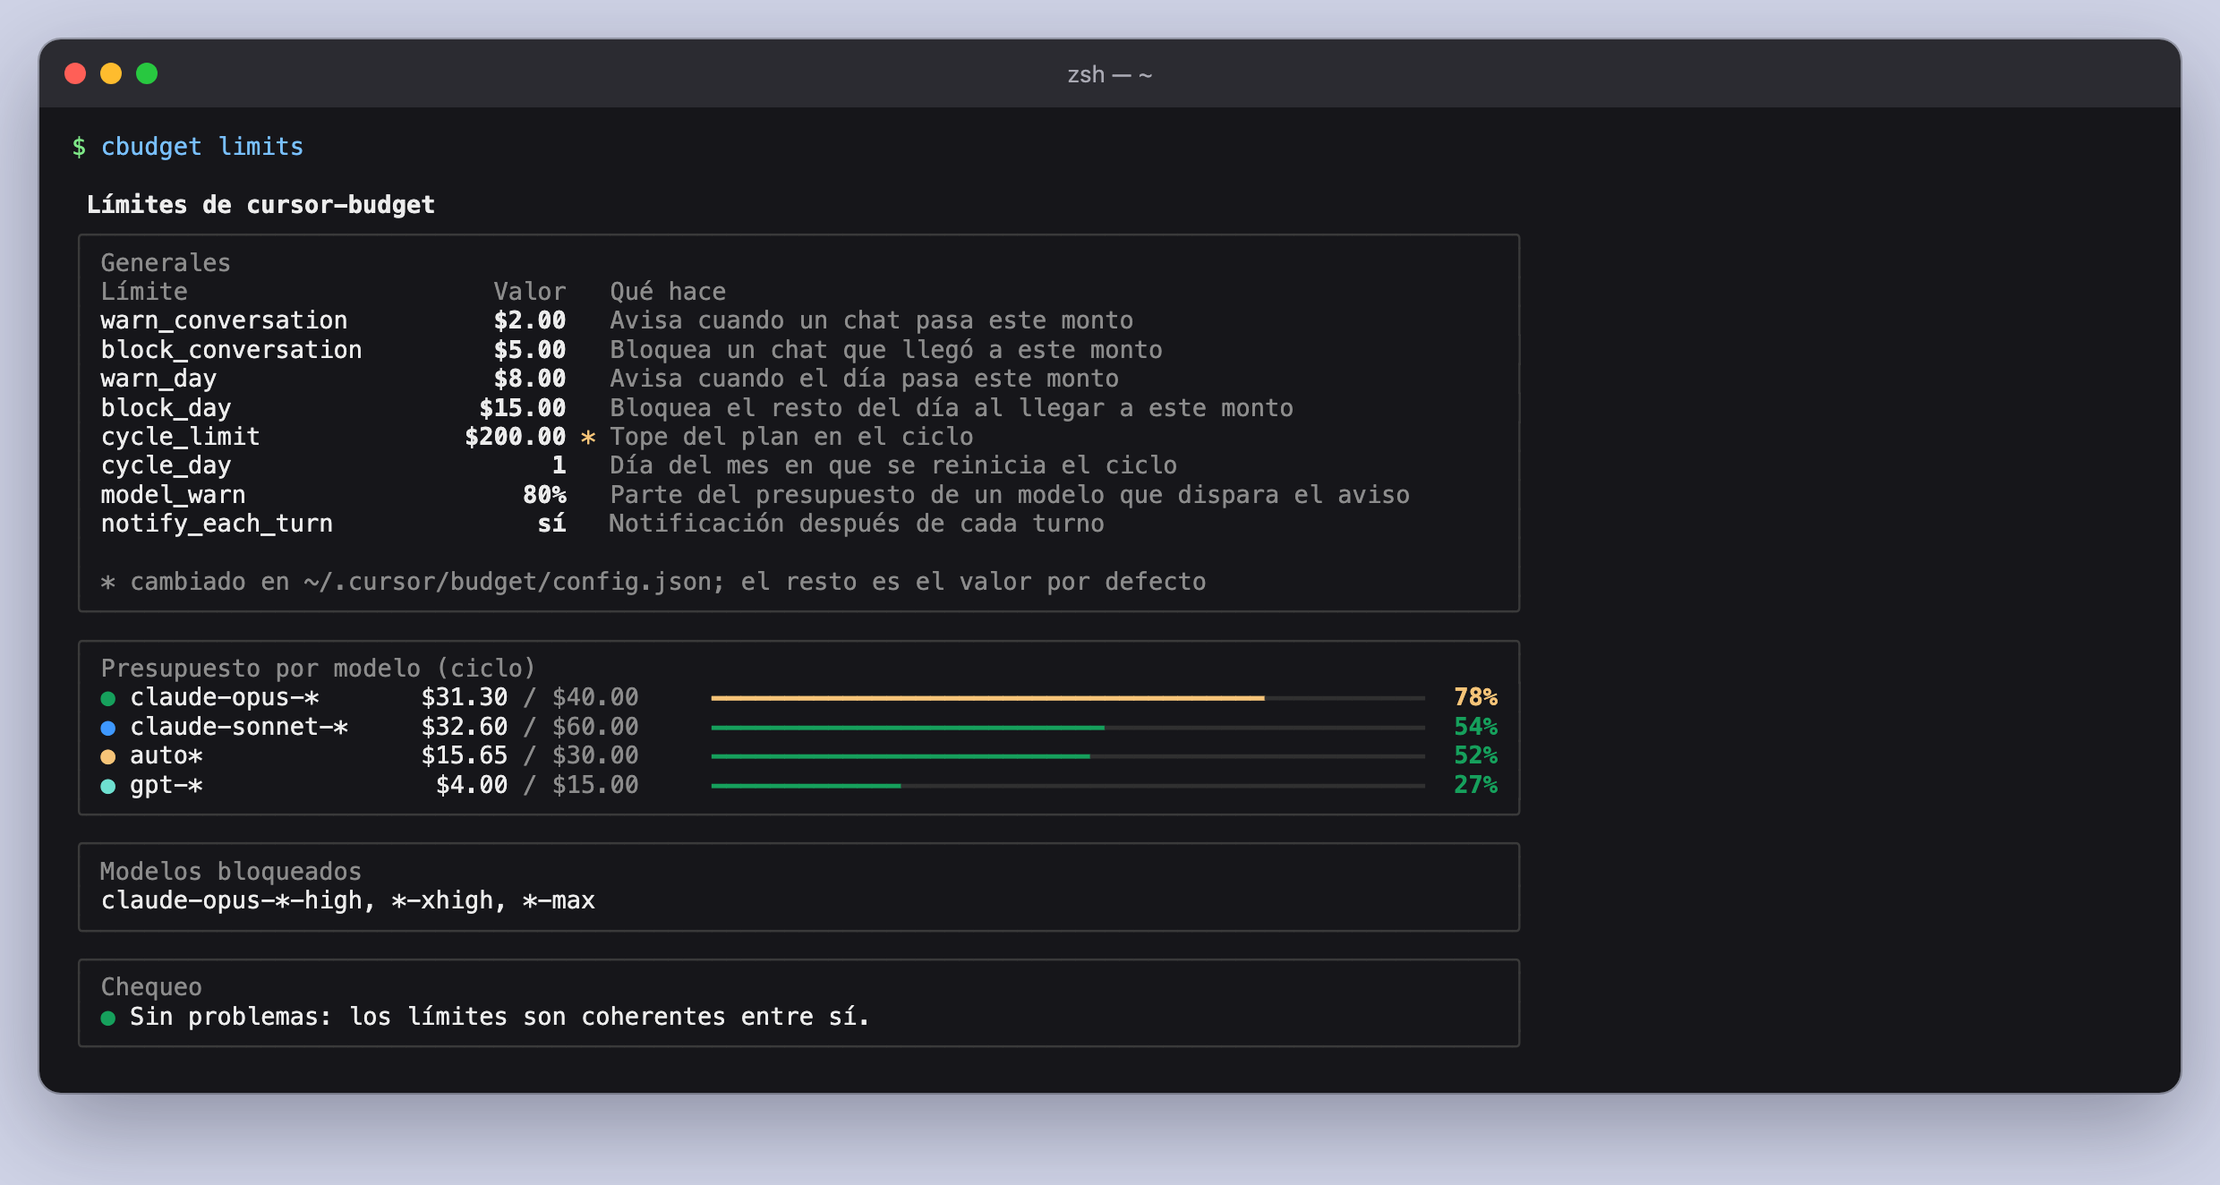
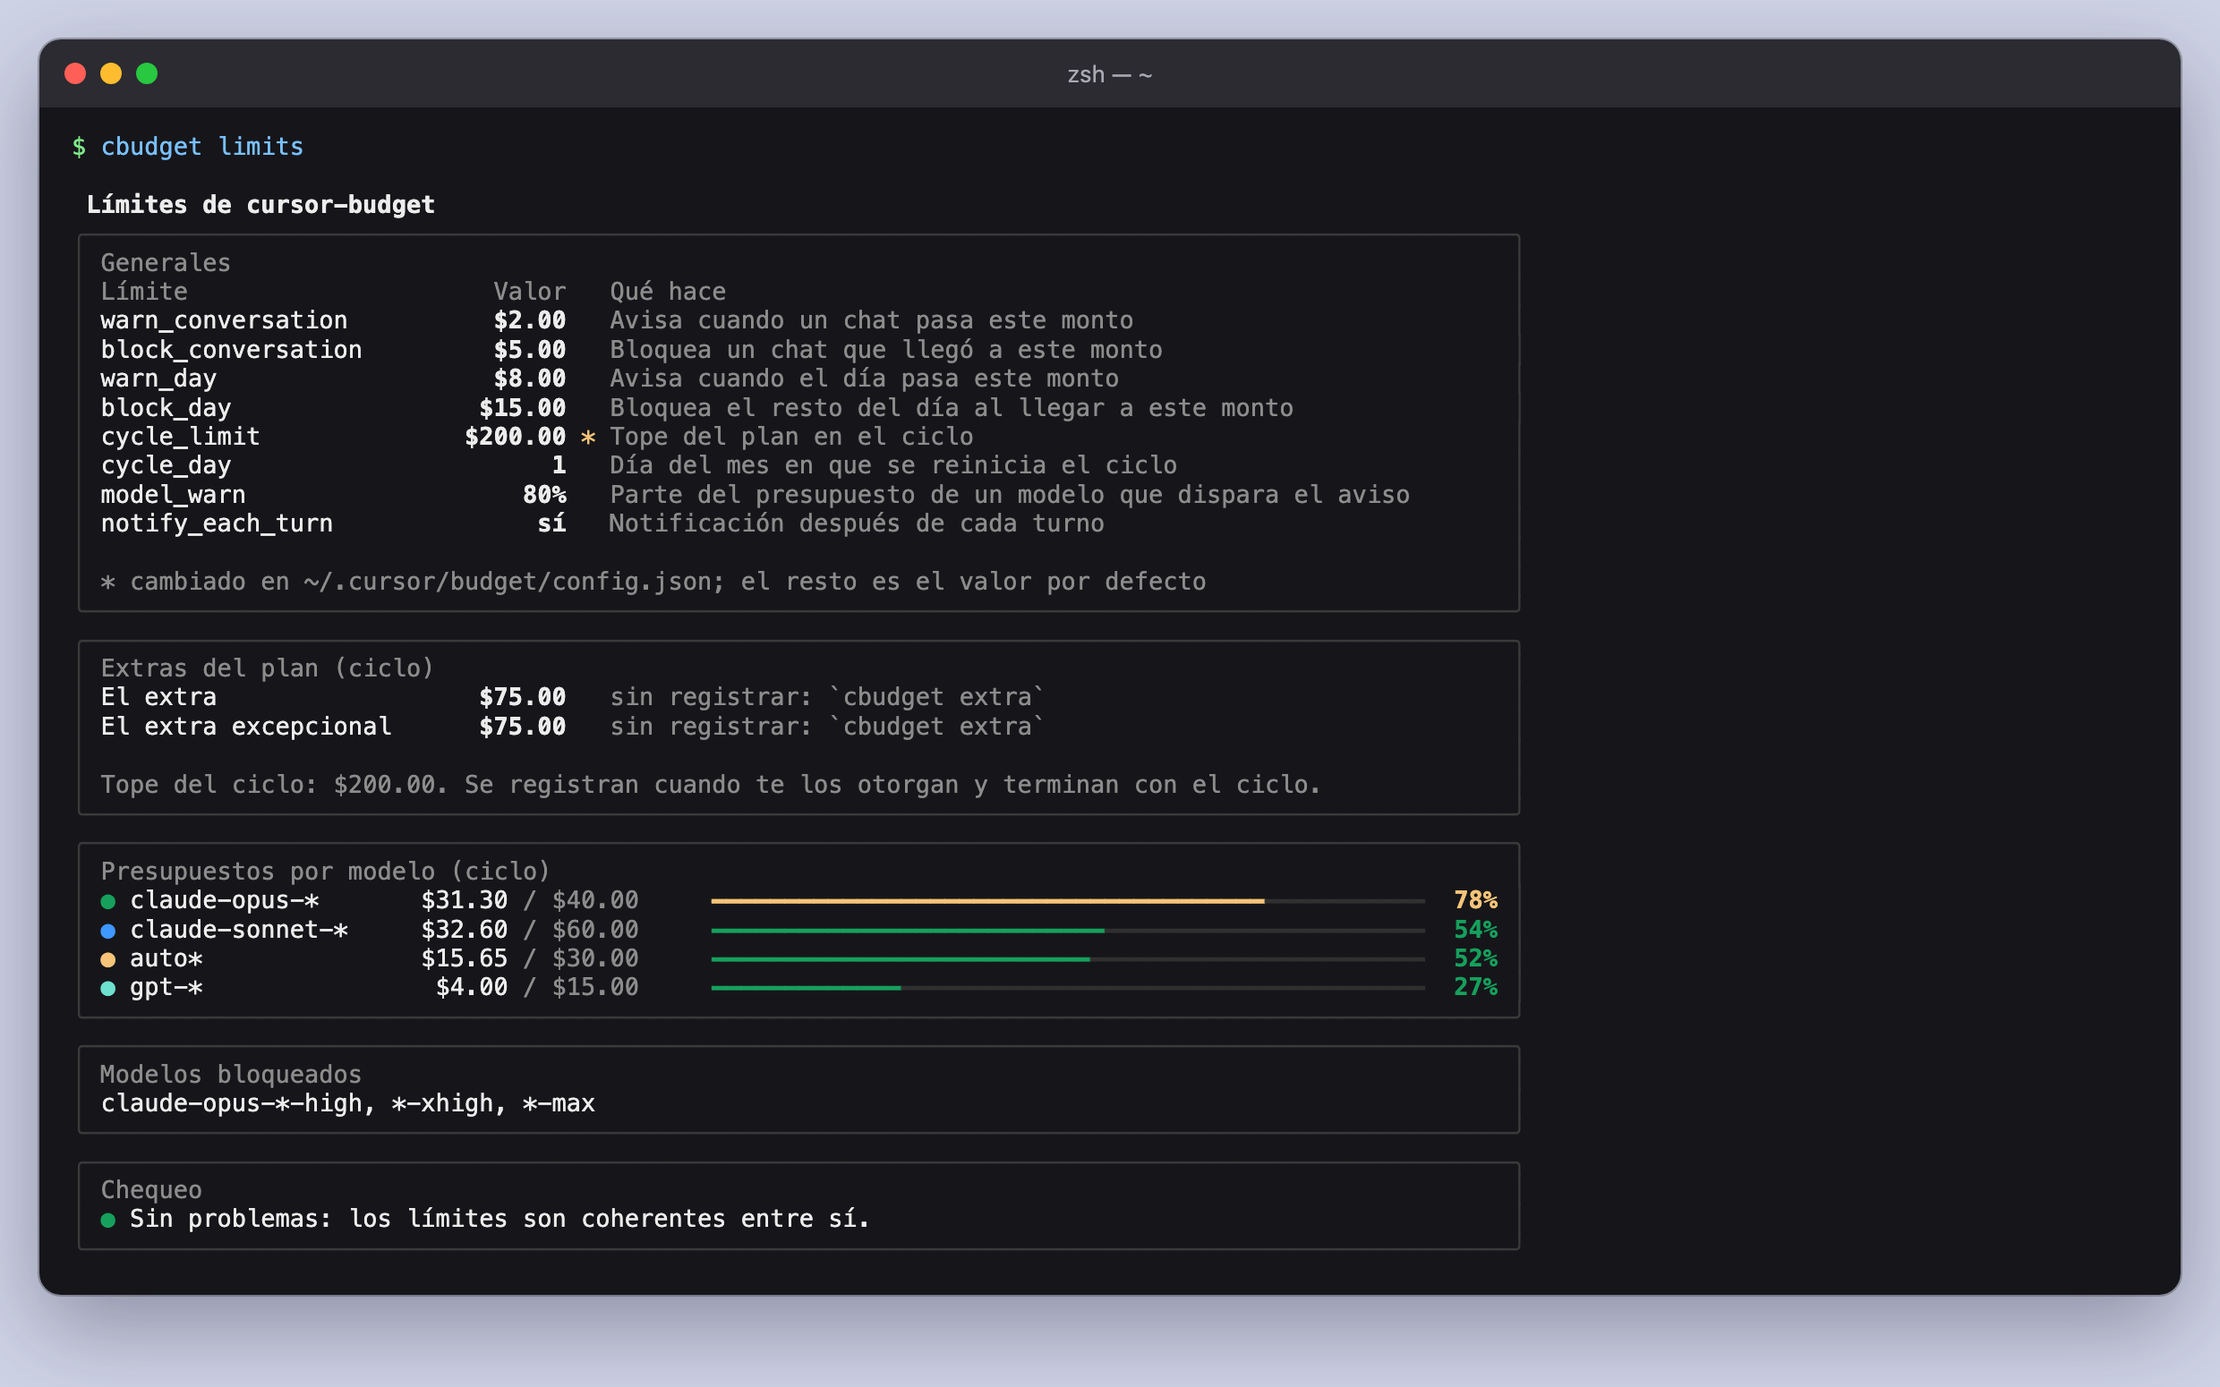
fix(cli): the terminal titles match the panel: Presupuestos por modelo, Gastos por día
cbudget report, cbudget limits and the limits editor say 'Presupuestos por modelo' and 'Gastos por día', like the extension's panel. The reference heading follows. The docs captures of report, limits and the editor are rerun; limits now also shows the plan extras card it prints today.

Changed region(s): [[0.0, 0.0, 0.9935, 0.96], [0.4968, 0.4645, 0.5278, 0.4955]]

diff --git a/docs/img/src/terminal-report.html b/docs/img/src/terminal-report.html
@@ -20,14 +20,14 @@
 <span style="color:rgb(58,58,58);">│</span> <span style="font-weight:700;color:rgb(236,236,236);">$84.96</span>                       <span style="color:rgb(58,58,58);">│</span>  <span style="color:rgb(58,58,58);">│</span> <span style="font-weight:700;color:rgb(22,160,92);">$115.04</span>                      <span style="color:rgb(58,58,58);">│</span>  <span style="color:rgb(58,58,58);">│</span> <span style="font-weight:700;color:rgb(236,236,236);">$0.66</span>                        <span style="color:rgb(58,58,58);">│</span>
 <span style="color:rgb(58,58,58);">╰──────────────────────────────╯</span>  <span style="color:rgb(58,58,58);">╰──────────────────────────────╯</span>  <span style="color:rgb(58,58,58);">╰──────────────────────────────╯</span>
 <span style="color:rgb(58,58,58);">╭──────────────────────────────────────────────────────────────────────────────────────────────────╮</span>
-<span style="color:rgb(58,58,58);">│</span> <span style="color:rgb(140,140,140);">Presupuesto por modelo</span>                                                                           <span style="color:rgb(58,58,58);">│</span>
+<span style="color:rgb(58,58,58);">│</span> <span style="color:rgb(140,140,140);">Presupuestos por modelo</span>                                                                          <span style="color:rgb(58,58,58);">│</span>
 <span style="color:rgb(58,58,58);">│</span> <span style="color:rgb(22,160,92);">● </span><span style="color:rgb(236,236,236);">claude-opus-*</span>    <span style="color:rgb(236,236,236);">   $31.30</span><span style="color:rgb(140,140,140);"> / $40.00   </span>  <span style="color:rgb(246,196,120);">━━━━━━━━━━━━━━━━━━━━━━━━━━━━━━━━━━━━━━</span><span style="color:rgb(48,48,48);">━━━━━━━━━━━</span><span style="font-weight:700;color:rgb(246,196,120);">  78%</span> <span style="color:rgb(58,58,58);">│</span>
 <span style="color:rgb(58,58,58);">│</span> <span style="color:rgb(62,152,255);">● </span><span style="color:rgb(236,236,236);">claude-sonnet-*</span>  <span style="color:rgb(236,236,236);">   $32.60</span><span style="color:rgb(140,140,140);"> / $60.00   </span>  <span style="color:rgb(22,160,92);">━━━━━━━━━━━━━━━━━━━━━━━━━━━</span><span style="color:rgb(48,48,48);">━━━━━━━━━━━━━━━━━━━━━━</span><span style="font-weight:700;color:rgb(22,160,92);">  54%</span> <span style="color:rgb(58,58,58);">│</span>
 <span style="color:rgb(58,58,58);">│</span> <span style="color:rgb(246,196,120);">● </span><span style="color:rgb(236,236,236);">auto*</span>            <span style="color:rgb(236,236,236);">   $15.65</span><span style="color:rgb(140,140,140);"> / $30.00   </span>  <span style="color:rgb(22,160,92);">━━━━━━━━━━━━━━━━━━━━━━━━━━</span><span style="color:rgb(48,48,48);">━━━━━━━━━━━━━━━━━━━━━━━</span><span style="font-weight:700;color:rgb(22,160,92);">  52%</span> <span style="color:rgb(58,58,58);">│</span>
 <span style="color:rgb(58,58,58);">│</span> <span style="color:rgb(110,224,208);">● </span><span style="color:rgb(236,236,236);">gpt-*</span>            <span style="color:rgb(236,236,236);">    $4.00</span><span style="color:rgb(140,140,140);"> / $15.00   </span>  <span style="color:rgb(22,160,92);">━━━━━━━━━━━━━</span><span style="color:rgb(48,48,48);">━━━━━━━━━━━━━━━━━━━━━━━━━━━━━━━━━━━━</span><span style="font-weight:700;color:rgb(22,160,92);">  27%</span> <span style="color:rgb(58,58,58);">│</span>
 <span style="color:rgb(58,58,58);">╰──────────────────────────────────────────────────────────────────────────────────────────────────╯</span>
 <span style="color:rgb(58,58,58);">╭──────────────────────────────────────────────────────────────────────────────────────────────────╮</span>
-<span style="color:rgb(58,58,58);">│</span> <span style="color:rgb(140,140,140);">Uso por día</span>                                                                                      <span style="color:rgb(58,58,58);">│</span>
+<span style="color:rgb(58,58,58);">│</span> <span style="color:rgb(140,140,140);">Gastos por día</span>                                                                                   <span style="color:rgb(58,58,58);">│</span>
 <span style="color:rgb(58,58,58);">│</span> <span style="color:rgb(140,140,140);">Tu uso por día en este ciclo</span>                                                                     <span style="color:rgb(58,58,58);">│</span>
 <span style="color:rgb(58,58,58);">│</span>                                                                                                  <span style="color:rgb(58,58,58);">│</span>
 <span style="color:rgb(58,58,58);">│</span> <span style="color:rgb(140,140,140);">02 oct  </span><span style="color:rgb(62,152,255);">███████████████████</span>                                                          <span style="color:rgb(236,236,236);">      $3.10</span> <span style="color:rgb(58,58,58);">│</span>

diff --git a/docs/img/src/terminal-limites.html b/docs/img/src/terminal-limites.html
@@ -23,7 +23,14 @@
 <span style="color:rgb(58,58,58);">│</span> <span style="color:rgb(140,140,140);">* cambiado en ~/.cursor/budget/config.json; el resto es el valor por defecto</span>                     <span style="color:rgb(58,58,58);">│</span>
 <span style="color:rgb(58,58,58);">╰──────────────────────────────────────────────────────────────────────────────────────────────────╯</span>
 <span style="color:rgb(58,58,58);">╭──────────────────────────────────────────────────────────────────────────────────────────────────╮</span>
-<span style="color:rgb(58,58,58);">│</span> <span style="color:rgb(140,140,140);">Presupuesto por modelo (ciclo)</span>                                                                   <span style="color:rgb(58,58,58);">│</span>
+<span style="color:rgb(58,58,58);">│</span> <span style="color:rgb(140,140,140);">Extras del plan (ciclo)</span>                                                                          <span style="color:rgb(58,58,58);">│</span>
+<span style="color:rgb(58,58,58);">│</span> <span style="color:rgb(236,236,236);">El extra</span>              <span style="font-weight:700;color:rgb(236,236,236);">    $75.00</span>   <span style="color:rgb(140,140,140);">sin registrar: `cbudget extra`</span>                                <span style="color:rgb(58,58,58);">│</span>
+<span style="color:rgb(58,58,58);">│</span> <span style="color:rgb(236,236,236);">El extra excepcional</span>  <span style="font-weight:700;color:rgb(236,236,236);">    $75.00</span>   <span style="color:rgb(140,140,140);">sin registrar: `cbudget extra`</span>                                <span style="color:rgb(58,58,58);">│</span>
+<span style="color:rgb(58,58,58);">│</span>                                                                                                  <span style="color:rgb(58,58,58);">│</span>
+<span style="color:rgb(58,58,58);">│</span> <span style="color:rgb(140,140,140);">Tope del ciclo: $200.00. Se registran cuando te los otorgan y terminan con el ciclo.</span>             <span style="color:rgb(58,58,58);">│</span>
+<span style="color:rgb(58,58,58);">╰──────────────────────────────────────────────────────────────────────────────────────────────────╯</span>
+<span style="color:rgb(58,58,58);">╭──────────────────────────────────────────────────────────────────────────────────────────────────╮</span>
+<span style="color:rgb(58,58,58);">│</span> <span style="color:rgb(140,140,140);">Presupuestos por modelo (ciclo)</span>                                                                  <span style="color:rgb(58,58,58);">│</span>
 <span style="color:rgb(58,58,58);">│</span> <span style="color:rgb(22,160,92);">● </span><span style="color:rgb(236,236,236);">claude-opus-*</span>    <span style="color:rgb(236,236,236);">   $31.30</span><span style="color:rgb(140,140,140);"> / $40.00   </span>  <span style="color:rgb(246,196,120);">━━━━━━━━━━━━━━━━━━━━━━━━━━━━━━━━━━━━━━</span><span style="color:rgb(48,48,48);">━━━━━━━━━━━</span><span style="font-weight:700;color:rgb(246,196,120);">  78%</span> <span style="color:rgb(58,58,58);">│</span>
 <span style="color:rgb(58,58,58);">│</span> <span style="color:rgb(62,152,255);">● </span><span style="color:rgb(236,236,236);">claude-sonnet-*</span>  <span style="color:rgb(236,236,236);">   $32.60</span><span style="color:rgb(140,140,140);"> / $60.00   </span>  <span style="color:rgb(22,160,92);">━━━━━━━━━━━━━━━━━━━━━━━━━━━</span><span style="color:rgb(48,48,48);">━━━━━━━━━━━━━━━━━━━━━━</span><span style="font-weight:700;color:rgb(22,160,92);">  54%</span> <span style="color:rgb(58,58,58);">│</span>
 <span style="color:rgb(58,58,58);">│</span> <span style="color:rgb(246,196,120);">● </span><span style="color:rgb(236,236,236);">auto*</span>            <span style="color:rgb(236,236,236);">   $15.65</span><span style="color:rgb(140,140,140);"> / $30.00   </span>  <span style="color:rgb(22,160,92);">━━━━━━━━━━━━━━━━━━━━━━━━━━</span><span style="color:rgb(48,48,48);">━━━━━━━━━━━━━━━━━━━━━━━</span><span style="font-weight:700;color:rgb(22,160,92);">  52%</span> <span style="color:rgb(58,58,58);">│</span>

diff --git a/docs/img/src/terminal-editar.html b/docs/img/src/terminal-editar.html
@@ -17,7 +17,7 @@ Día del mes en que se reinicia el ciclo (cycle_day) [1]: <span class="u"></span
 Parte del presupuesto de un modelo que dispara el aviso (model_warn) [80%]: <span class="u"></span>
 Notificación después de cada turno (notify_each_turn) [sí]: <span class="u"></span>
 
-Presupuesto por modelo: un monto lo cambia, &#x27;-&#x27; lo quita.
+Presupuestos por modelo: un monto lo cambia, &#x27;-&#x27; lo quita.
   claude-opus-* [$40.00]: <span class="u">30</span>
   claude-sonnet-* [$60.00]: <span class="u"></span>
   auto* [$30.00]: <span class="u"></span>

diff --git a/tests/test_budget.py b/tests/test_budget.py
@@ -380,7 +380,7 @@ class TestReport(Home):
         (self.home / "config.json").write_text(json.dumps({"model_budgets": {"claude-*": 10}}), encoding="utf-8")
         self.run_stop(stop(input_tokens=1_000_000))
         text = render.report(7, home=self.home, color=False, now=NOON)
-        for heading in ("Uso de Cursor", "Uso del ciclo", "Presupuesto por modelo", "Uso por día", "Últimos turnos"):
+        for heading in ("Uso de Cursor", "Uso del ciclo", "Presupuestos por modelo", "Gastos por día", "Últimos turnos"):
             self.assertIn(heading, text)
         self.assertNotIn("\033[", text)
         self.assertIn("Quedan 8 días", text)
@@ -468,7 +468,7 @@ class TestLimits(Home):
 
     def test_show_lists_limits_and_the_check(self):
         text = limits.show(home=self.home, color=False, now=NOON)
-        for heading in ("Límites de cursor-budget", "Generales", "Presupuesto por modelo", "Chequeo"):
+        for heading in ("Límites de cursor-budget", "Generales", "Presupuestos por modelo (ciclo)", "Chequeo"):
             self.assertIn(heading, text)
 
 

diff --git a/cbudget/limits.py b/cbudget/limits.py
@@ -58,7 +58,7 @@ def show(home: Path = budget.HOME, color: bool = False, now: Optional[float] = N
                         + line_bar(used, bar_w, paint, level(used)) + paint(f"{used:5.0%}", level(used), bold=True))
     else:
         rows = [paint("Sin presupuestos por modelo. Agregá uno con `cbudget limits model <patrón> <usd>`.", MUTED)]
-    out += card("Presupuesto por modelo (ciclo)", rows, size, paint)
+    out += card("Presupuestos por modelo (ciclo)", rows, size, paint)
 
     blocked = cfg["blocked_models"]
     out += card("Modelos bloqueados", [paint(", ".join(blocked) if blocked else "Ninguno", TEXT)], size, paint)
@@ -126,7 +126,7 @@ def edit(home: Path = budget.HOME, ask: Callable[[str], str] = input, say: Calla
             break
 
     budgets = dict(cfg["model_budgets"])
-    say("\nPresupuesto por modelo: un monto lo cambia, '-' lo quita.")
+    say("\nPresupuestos por modelo: un monto lo cambia, '-' lo quita.")
     for pattern in list(budgets):
         raw = ask(f"  {pattern} [{money(float(budgets[pattern]))}]: ").strip()
         if raw == "-":

diff --git a/cbudget/render.py b/cbudget/render.py
@@ -153,7 +153,7 @@ def report(days: int, home: Path = budget.HOME, color: bool = False, now: Option
             rows.append(paint("● ", model_color(pattern)) + pad(paint(pattern, TEXT), name_w)
                         + paint(f"{money(spent):>9s}", TEXT) + paint(f" / {money(cap):<9s}", MUTED) + "  "
                         + line_bar(used, bar_w, paint, level(used)) + paint(f"{used:5.0%}", level(used), bold=True))
-        out += card("Presupuesto por modelo", rows, size, paint)
+        out += card("Presupuestos por modelo", rows, size, paint)
 
     # Spend per day, stacked by model
     series = budget.daily_by_model(ledger, home, now, cfg["cycle_day"])
@@ -180,7 +180,7 @@ def report(days: int, home: Path = budget.HOME, color: bool = False, now: Option
                 line = ""
             line += item
         rows += [""] + legend + [line]
-        out += card("Uso por día", rows, size, paint)
+        out += card("Gastos por día", rows, size, paint)
 
     # Latest turns
     since = now - days * 86400

diff --git a/docs/referencia.md b/docs/referencia.md
@@ -68,7 +68,7 @@ o que ya usaste los dos; el ciclo nunca frena prompts. El reporte muestra el top
 como **aviso** un tope diario mayor que el del ciclo, presupuestos por modelo que suman más que el ciclo, un patrón que
 no coincide con ningún modelo usado y un patrón tapado por otro anterior.
 
-## Presupuesto por modelo
+## Presupuestos por modelo
 
 `model_budgets` asigna un tope del ciclo a cada patrón (`fnmatch`; gana el primero que coincide, en el orden escrito).
 Lo gastado sale de `seed` (por modelo) más las estimaciones posteriores. Las filas del CSV que Auto derivó
